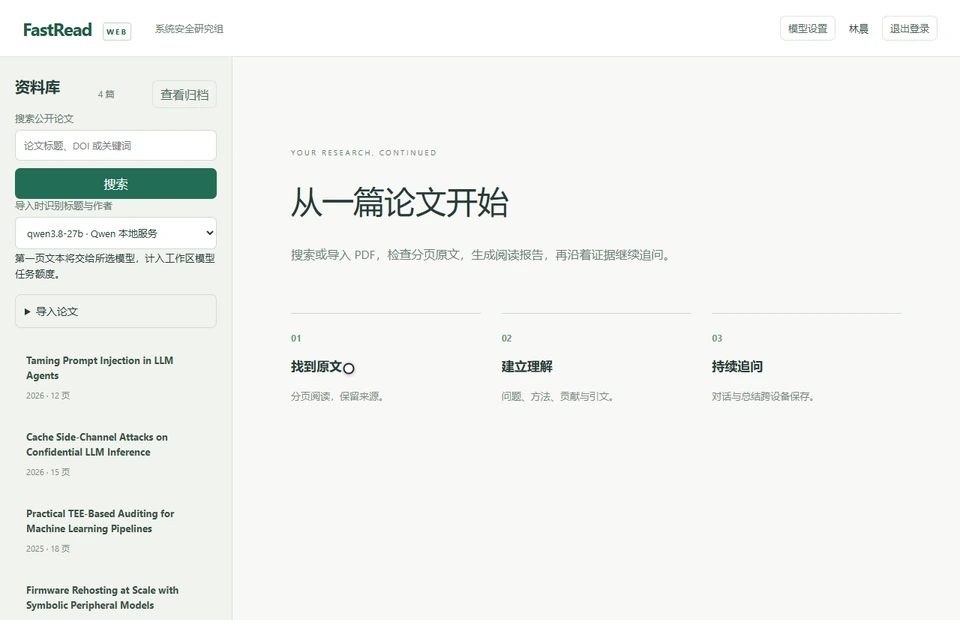
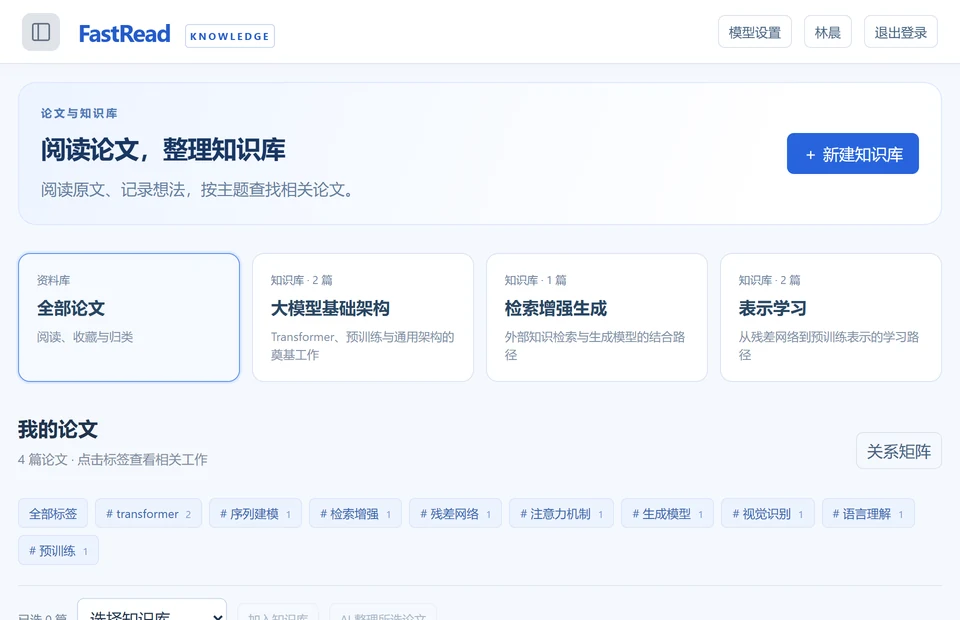
feat: refresh FastRead promo demo with 1019 workspace UI
- replace the FastRead animated demo with the new knowledge-base workspace flow
- update the static fallback and bump the promo asset version
- match versioned promo media in the offline fallback check

diff --git a/src/PromoPage.tsx b/src/PromoPage.tsx
@@ -6,7 +6,7 @@ import './promo.css'
 const WORKSPACE_HREF = `${import.meta.env.BASE_URL}workspace`
 const API_BASE = (import.meta.env.VITE_API_URL ?? '').replace(/\/$/, '')
 const FASTTASK_HREF = `${API_BASE}/api/fasttask/login`
-const ASSET_VERSION = '20261019-1'
+const ASSET_VERSION = '20261019-2'
 const asset = (name: string) => `${import.meta.env.BASE_URL}promo/${name}?v=${ASSET_VERSION}`
 
 const MODULES = [
